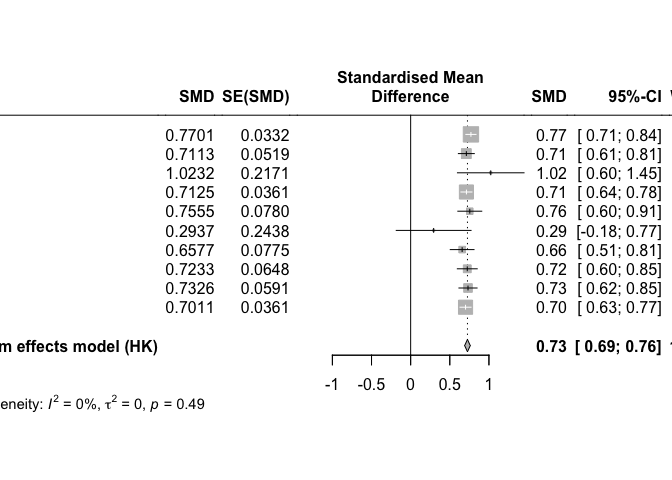
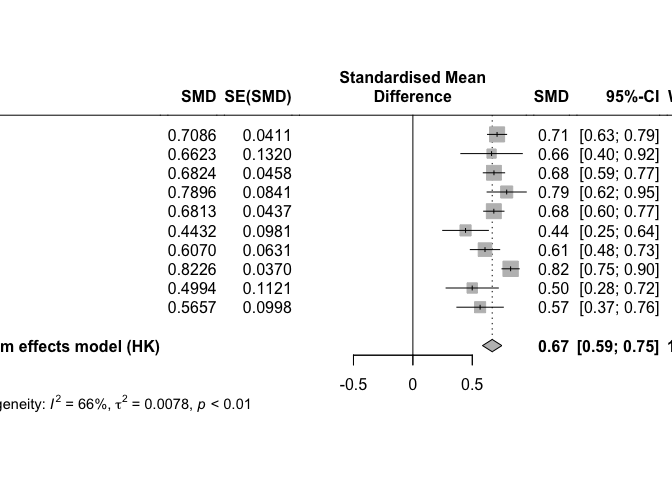
adding categorical moderator to sim_meta

diff --git a/README.md b/README.md
@@ -44,17 +44,20 @@ sim <- sim_meta(min_obs = 20,
          fixed = TRUE,
          random = FALSE,
          varnames = c('x', 'y'))
+#> Warning in sim_meta(min_obs = 20, max_obs = 2000, n_studies = 1500, es_true =
+#> 0.3, : Number of moderator labels (0) does not match the number of effect sizes
+#> (1). Only the first -1 effect sizes are used.
 
 head(sim$data_aggr)
 #> # A tibble: 6 × 10
-#>   study hedges_g     se mean_x   mean_y  sd_x  sd_y   n_x   n_y      vi
-#>   <int>    <dbl>  <dbl>  <dbl>    <dbl> <dbl> <dbl> <int> <int>   <dbl>
-#> 1     1    0.271 0.0321  0.269  0.00563 0.973 0.973  1956  1956 0.00103
-#> 2     2    0.310 0.0389  0.271 -0.0423  0.991 1.02   1337  1337 0.00151
-#> 3     3    0.319 0.0368  0.335  0.00743 1.04  1.02   1498  1498 0.00135
-#> 4     4    0.359 0.0579  0.331 -0.0203  0.967 0.984   606   606 0.00335
-#> 5     5    0.292 0.0614  0.260 -0.0251  0.977 0.979   536   536 0.00377
-#> 6     6    0.309 0.0614  0.362  0.0519  1.01  0.999   536   536 0.00378
+#>   study hedges_g     se mean_x    mean_y  sd_x  sd_y   n_x   n_y      vi
+#>   <int>    <dbl>  <dbl>  <dbl>     <dbl> <dbl> <dbl> <int> <int>   <dbl>
+#> 1     1    0.251 0.0441  0.267  0.0193   1.01  0.972  1036  1036 0.00195
+#> 2     2    0.314 0.0394  0.301 -0.0151   1.01  1.01   1303  1303 0.00155
+#> 3     3    0.363 0.0491  0.332 -0.0230   0.999 0.955   844   844 0.00241
+#> 4     4    0.276 0.0424  0.305  0.0230   1.03  1.02   1125  1125 0.00179
+#> 5     5    0.221 0.0956  0.287  0.0723   0.940 0.996   220   220 0.00915
+#> 6     6    0.314 0.217   0.306 -0.000287 0.916 1.02     43    43 0.0471
 ```
 
 # Effect size and standard error
@@ -106,30 +109,30 @@ metaanalysis <- metagen(TE = hedges_g,
 summary(metaanalysis)
 #> Review:     Meta-Analysis fixed-effect
 #> 
-#>       SMD           95%-CI %W(common)
-#> 1  0.2706 [0.2077; 0.3336]       21.9
-#> 2  0.3105 [0.2342; 0.3867]       14.9
-#> 3  0.3190 [0.2469; 0.3911]       16.7
-#> 4  0.3595 [0.2460; 0.4730]        6.7
-#> 5  0.2918 [0.1714; 0.4122]        6.0
-#> 6  0.3091 [0.1886; 0.4295]        6.0
-#> 7  0.2529 [0.0098; 0.4960]        1.5
-#> 8  0.3435 [0.2483; 0.4387]        9.6
-#> 9  0.3327 [0.2469; 0.4184]       11.8
-#> 10 0.2958 [0.1619; 0.4297]        4.8
+#>       SMD            95%-CI %W(common)
+#> 1  0.2506 [ 0.1642; 0.3371]       10.3
+#> 2  0.3143 [ 0.2371; 0.3916]       12.9
+#> 3  0.3635 [ 0.2673; 0.4596]        8.3
+#> 4  0.2756 [ 0.1926; 0.3586]       11.1
+#> 5  0.2214 [ 0.0339; 0.4088]        2.2
+#> 6  0.3137 [-0.1116; 0.7390]        0.4
+#> 7  0.3791 [ 0.2724; 0.4857]        6.8
+#> 8  0.2892 [ 0.2240; 0.3544]       18.1
+#> 9  0.3581 [ 0.2765; 0.4397]       11.5
+#> 10 0.3519 [ 0.2874; 0.4165]       18.4
 #> 
 #> Number of studies: k = 10
 #> 
 #>                        SMD           95%-CI     z  p-value
-#> Common effect model 0.3095 [0.2800; 0.3390] 20.58 < 0.0001
+#> Common effect model 0.3173 [0.2896; 0.3450] 22.44 < 0.0001
 #> 
 #> Quantifying heterogeneity:
-#>  tau^2 = 0 [0.0000; 0.0004]; tau = 0 [0.0000; 0.0206]
-#>  I^2 = 0.0% [0.0%; 62.4%]; H = 1.00 [1.00; 1.63]
+#>  tau^2 = 0.0002 [0.0000; 0.0055]; tau = 0.0138 [0.0000; 0.0744]
+#>  I^2 = 2.4% [0.0%; 63.3%]; H = 1.01 [1.00; 1.65]
 #> 
 #> Test of heterogeneity:
 #>     Q d.f. p-value
-#>  3.38    9  0.9474
+#>  9.22    9  0.4175
 #> 
 #> Details on meta-analytical method:
 #> - Inverse variance method
@@ -156,17 +159,20 @@ sim <- sim_meta(min_obs = 20,
          random = TRUE,
          tau = 0.05,
          varnames = c('x', 'y'))
+#> Warning in sim_meta(min_obs = 20, max_obs = 2000, n_studies = 1500, es_true =
+#> 0.7, : Number of moderator labels (0) does not match the number of effect sizes
+#> (1). Only the first -1 effect sizes are used.
 
 head(sim$data_aggr)
 #> # A tibble: 6 × 10
 #>   study hedges_g     se mean_x  mean_y  sd_x  sd_y   n_x   n_y      vi
 #>   <int>    <dbl>  <dbl>  <dbl>   <dbl> <dbl> <dbl> <int> <int>   <dbl>
-#> 1     1    0.770 0.0332  0.740 -0.0163 0.974 0.991  1951  1951 0.00110
-#> 2     2    0.711 0.0519  0.694 -0.0202 0.997 1.01    789   789 0.00270
-#> 3     3    1.02  0.217   0.868  0.0541 0.701 0.869    48    48 0.0471 
-#> 4     4    0.712 0.0361  0.674 -0.0320 0.971 1.01   1636  1636 0.00130
-#> 5     5    0.756 0.0780  0.721 -0.0444 1.02  1.00    352   352 0.00609
-#> 6     6    0.294 0.244   0.309  0.0369 0.828 0.995    34    34 0.0595
+#> 1     1    0.709 0.0411  0.674 -0.0323 0.988 1.00   1261  1261 0.00169
+#> 2     2    0.662 0.132   0.795  0.143  0.911 1.05    121   121 0.0174 
+#> 3     3    0.682 0.0458  0.666 -0.0253 1.02  1.01   1007  1007 0.00210
+#> 4     4    0.790 0.0841  0.797  0.0198 1.00  0.967   305   305 0.00707
+#> 5     5    0.681 0.0437  0.724  0.0499 1.01  0.974  1110  1110 0.00191
+#> 6     6    0.443 0.0981  0.558  0.117  1.03  0.960   213   213 0.00962
 ```
 
 Run Random-Effects Meta-Analysis
@@ -200,30 +206,30 @@ metaanalysis <- metagen(TE = hedges_g,
 summary(metaanalysis)
 #> Review:     Meta-Analysis fixed-effect
 #> 
-#>       SMD            95%-CI %W(random)
-#> 1  0.7701 [ 0.7050; 0.8351]       24.5
-#> 2  0.7113 [ 0.6096; 0.8131]       10.0
-#> 3  1.0232 [ 0.5977; 1.4486]        0.6
-#> 4  0.7125 [ 0.6418; 0.7831]       20.7
-#> 5  0.7555 [ 0.6026; 0.9084]        4.4
-#> 6  0.2937 [-0.1842; 0.7716]        0.5
-#> 7  0.6577 [ 0.5058; 0.8096]        4.5
-#> 8  0.7233 [ 0.5962; 0.8503]        6.4
-#> 9  0.7326 [ 0.6168; 0.8484]        7.7
-#> 10 0.7011 [ 0.6304; 0.7719]       20.7
+#>       SMD           95%-CI %W(random)
+#> 1  0.7086 [0.6281; 0.7890]       13.6
+#> 2  0.6623 [0.4035; 0.9211]        5.1
+#> 3  0.6824 [0.5926; 0.7723]       13.1
+#> 4  0.7896 [0.6248; 0.9543]        8.7
+#> 5  0.6813 [0.5958; 0.7669]       13.3
+#> 6  0.4432 [0.2510; 0.6355]        7.4
+#> 7  0.6070 [0.4834; 0.7306]       11.0
+#> 8  0.8226 [0.7501; 0.8951]       14.1
+#> 9  0.4994 [0.2796; 0.7191]        6.4
+#> 10 0.5657 [0.3702; 0.7613]        7.3
 #> 
 #> Number of studies: k = 10
 #> 
 #>                              SMD           95%-CI     t  p-value
-#> Random effects model (HK) 0.7257 [0.6898; 0.7616] 45.72 < 0.0001
+#> Random effects model (HK) 0.6677 [0.5863; 0.7492] 18.55 < 0.0001
 #> 
 #> Quantifying heterogeneity:
-#>  tau^2 = 0 [0.0000; 0.0521]; tau = 0 [0.0000; 0.2283]
-#>  I^2 = 0.0% [0.0%; 62.4%]; H = 1.00 [1.00; 1.63]
+#>  tau^2 = 0.0078 [0.0012; 0.0407]; tau = 0.0885 [0.0353; 0.2019]
+#>  I^2 = 66.2% [33.9%; 82.7%]; H = 1.72 [1.23; 2.40]
 #> 
 #> Test of heterogeneity:
-#>     Q d.f. p-value
-#>  8.41    9  0.4933
+#>      Q d.f. p-value
+#>  26.60    9  0.0016
 #> 
 #> Details on meta-analytical method:
 #> - Inverse variance method
